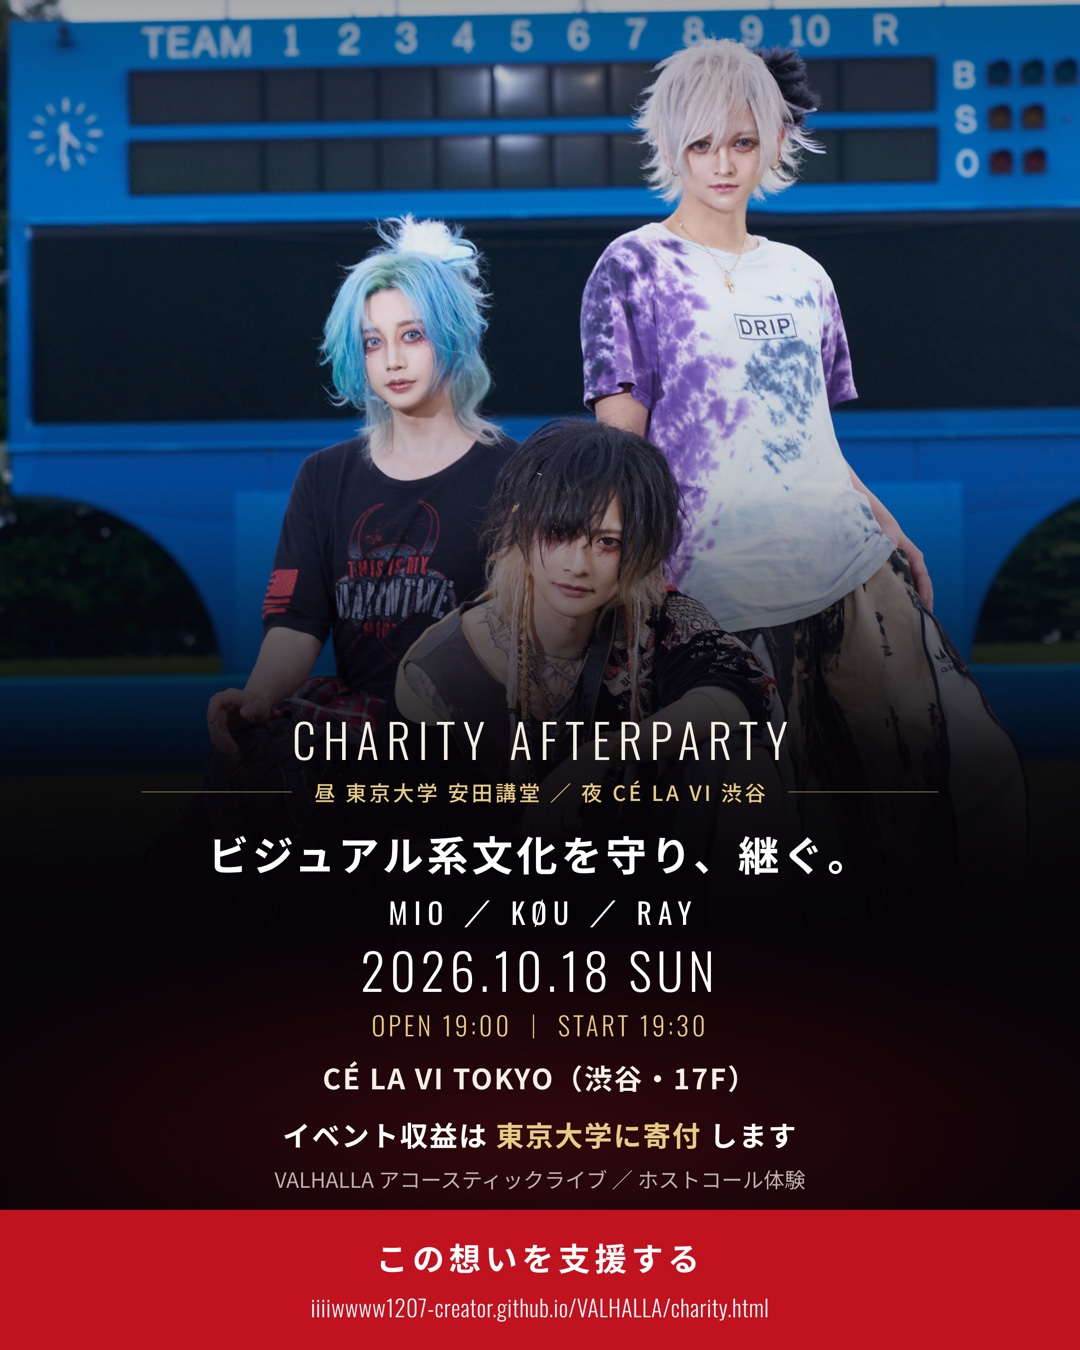
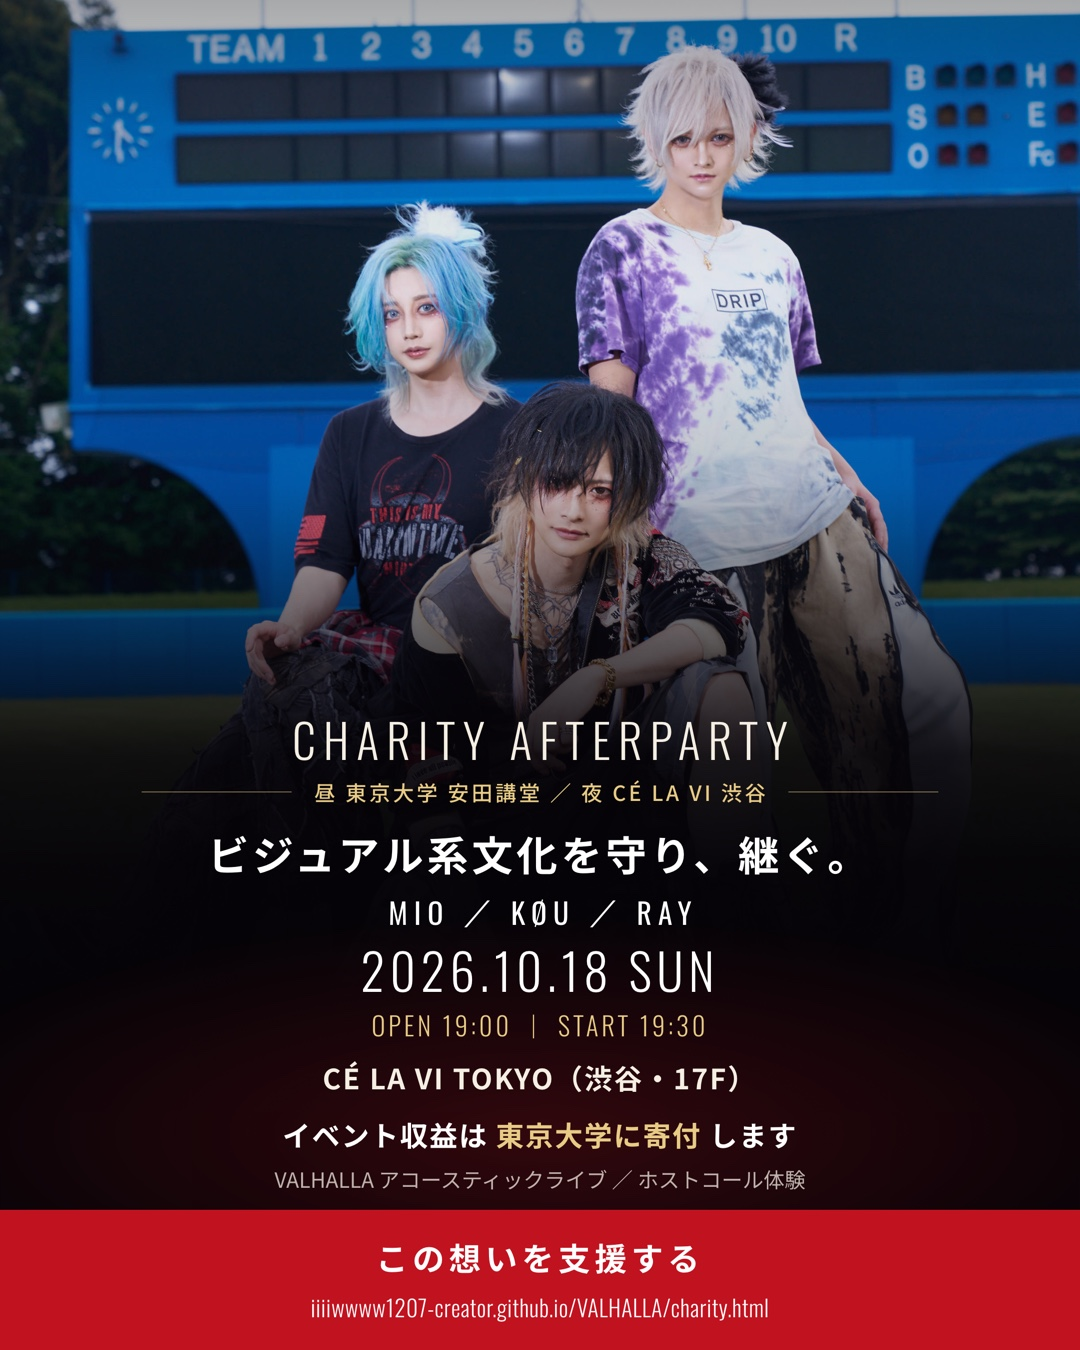
SNS1枚目：フルブリードを保てる限界まで引いた構図に
kazuma 指示「もっとひきの画像にしてみたら」。

寄りを緩めた結果、スコアボードの全景・グラウンド・木立、
3人の衣装の裾まで入り、ロケーションの空気が出るようになった。
スコアボード上端が紙面スレスレという基準は維持している。

- feed45 : 113%幅/109%   → 100%幅 / center -452px
- square : cover/89%     → 100%幅 / center -452px
- story  : 166%幅/97%    → 125%幅 / center -566px
  （位置指定を % から px に変更。画像を上へ送る量が直感的に決まるため）

3サイズとも「上に空が残らない／RAYの頭が切れない／KØUの顔が文字に掛からない」
を維持していることを描画で確認済み。

Changed region(s): [[0.0, 0.0, 1.0, 0.56]]

diff --git a/flyer-sns.html b/flyer-sns.html
@@ -54,9 +54,9 @@
   .board.feed45 .bg,.board.square .bg,.board.story .bg{
       background-image:url('assets/charity/group_field.jpg');
       background-size:cover;opacity:1;filter:none}
-  .board.feed45 .bg{background-size:113% auto;background-position:center 109%}
-  .board.square .bg{background-position:center 89%}
-  .board.story  .bg{background-size:166% auto;background-position:center 97%}
+  .board.feed45 .bg{background-size:100% auto;background-position:center -452px}
+  .board.square .bg{background-size:100% auto;background-position:center -452px}
+  .board.story  .bg{background-size:125% auto;background-position:center -566px}
   .board.feed45 .veil,.board.square .veil,.board.story .veil{
       background:linear-gradient(180deg,
         rgba(5,3,7,.34) 0%, rgba(5,3,7,.10) 12%, rgba(5,3,7,.08) 22%, rgba(5,3,7,.22) 36%,

diff --git a/docs/celavi-afterparty.md b/docs/celavi-afterparty.md
@@ -94,7 +94,10 @@
 「上の空を詰めて、3人の顔が見える範囲の中央に来る」ことを優先する。
         構図の基準（kazuma 指示）: **スコアボードの上端が紙面の上端スレスレ**になるまで詰める。
         そこまで上げても奥の RAY の頭は切れず、手前の KØU の顔が中央寄りに上がる。
-        現在値: feed45=113%幅/109% ・ square=cover/89% ・ story=166%幅/97%
+        寄り引きは**フルブリードを保てる限界まで引く**（kazuma 指示 2026-08-27）。
+        引くとスコアボード全景・グラウンド・衣装の裾まで入り、ロケーションの空気が出る。
+        位置は %ではなくpx指定（画像を上へ送る量が直感的に決まるため）。
+        現在値: feed45=100%幅/-452px ・ square=100%幅/-452px ・ story=125%幅/-566px
       - 2枚目＝席の中身と価格の理由。ここで初めて金額を出す
       - 2枚目の背景は安田講堂の**内観を「引き」で全景**（寄せると何の建物か分からなくなるため）
       - ※ A4版は単票で完結させる必要があるので、A4には金額を残している
